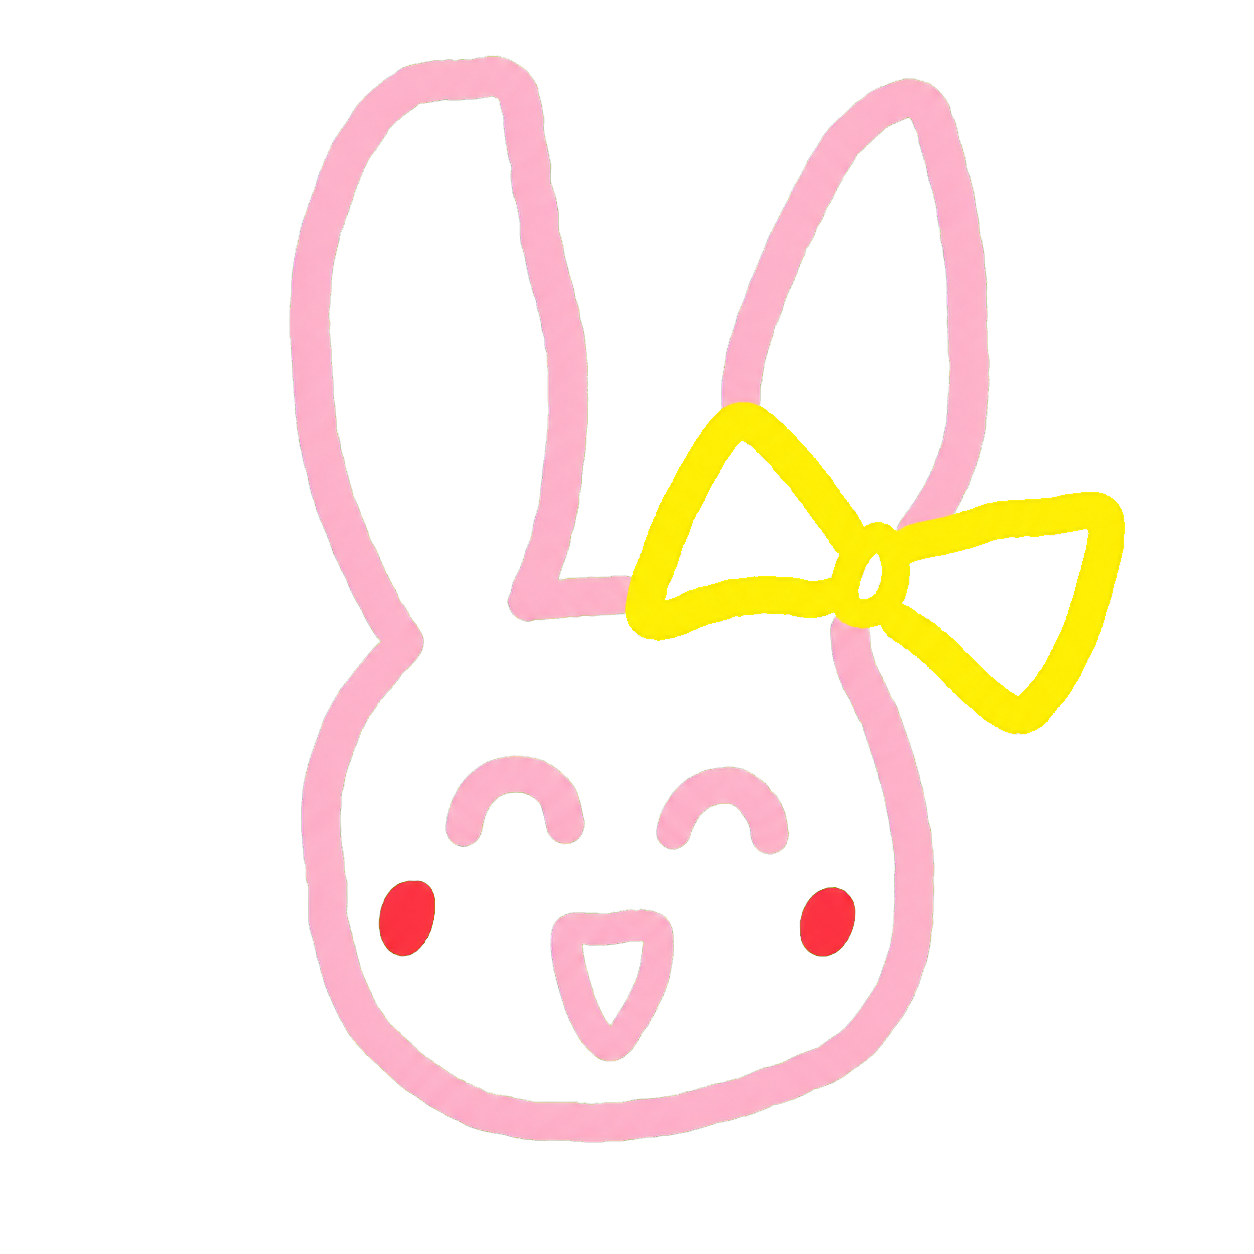
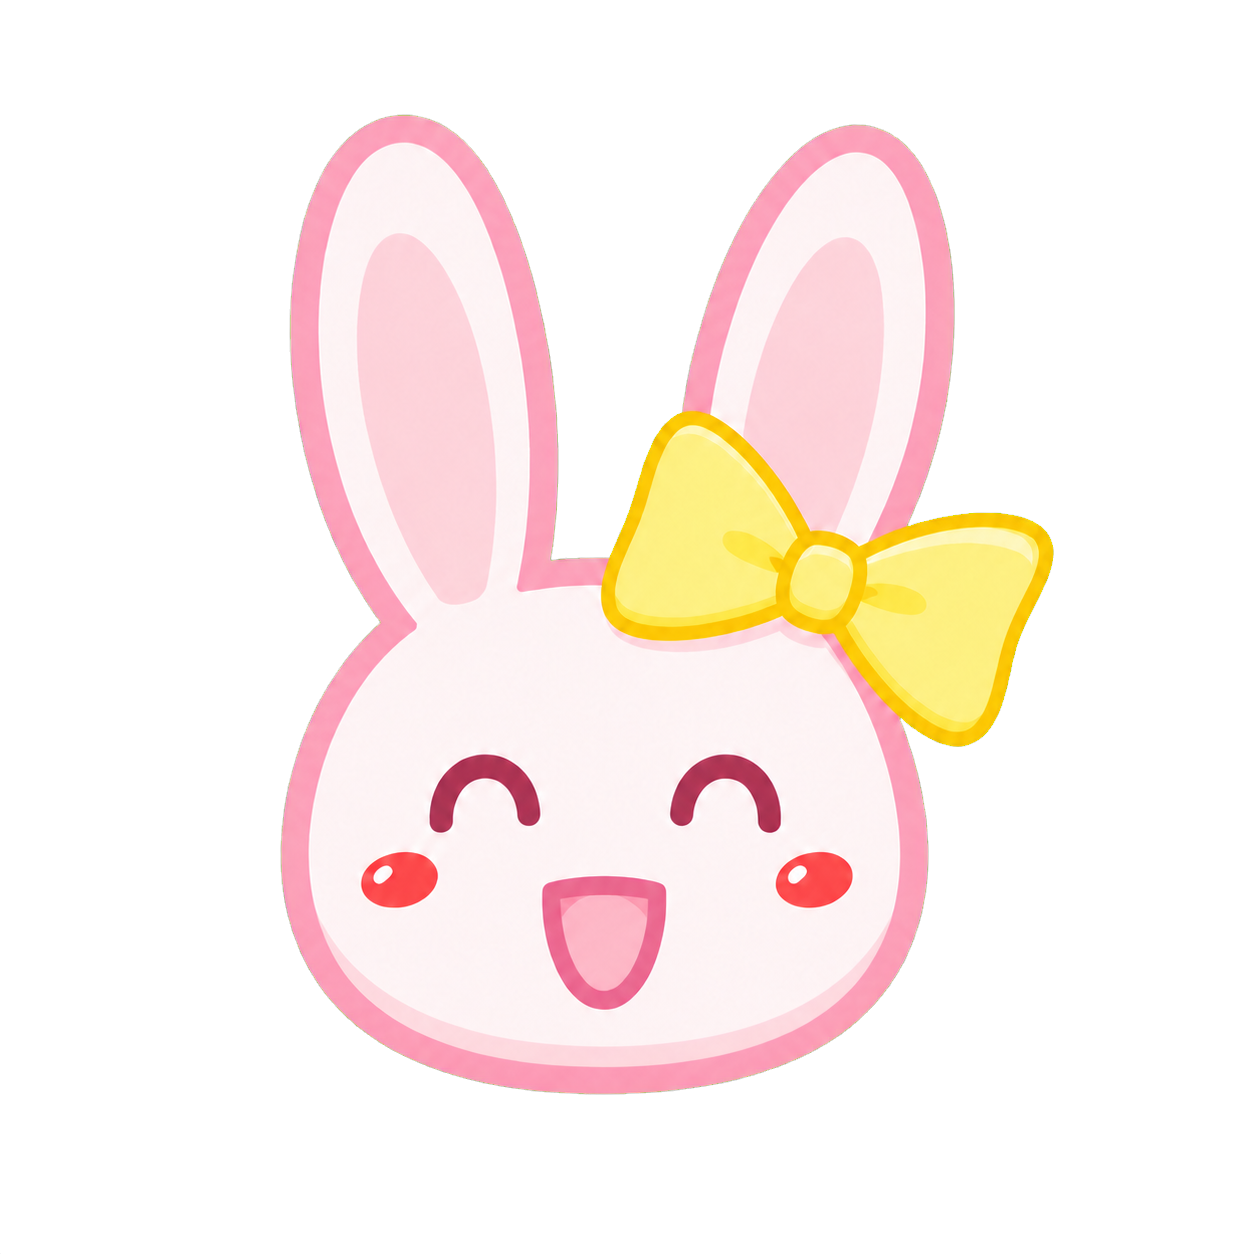
fix: replace mascot and restore sidebar bunny

Changed region(s): [[0.2177, 0.0311, 0.9019, 0.933]]

diff --git a/GeminiDesk/MainWindow.xaml b/GeminiDesk/MainWindow.xaml
@@ -211,12 +211,11 @@
 
                 <StackPanel Orientation="Horizontal" Margin="2,4,0,20">
                     <Border Width="42" Height="42" Background="{StaticResource PrimaryBrush}" CornerRadius="15">
-                        <Image Width="34"
-                               Height="34"
-                               HorizontalAlignment="Center"
-                               VerticalAlignment="Center"
-                               Stretch="Uniform"
-                               Source="/GeminiDesk;component/Assets/bunny-mascot.png" />
+                        <TextBlock HorizontalAlignment="Center"
+                                   VerticalAlignment="Center"
+                                   FontSize="21"
+                                   Foreground="White"
+                                   Text="🐇" />
                     </Border>
                     <StackPanel Margin="11,1,0,0">
                         <TextBlock FontSize="19"